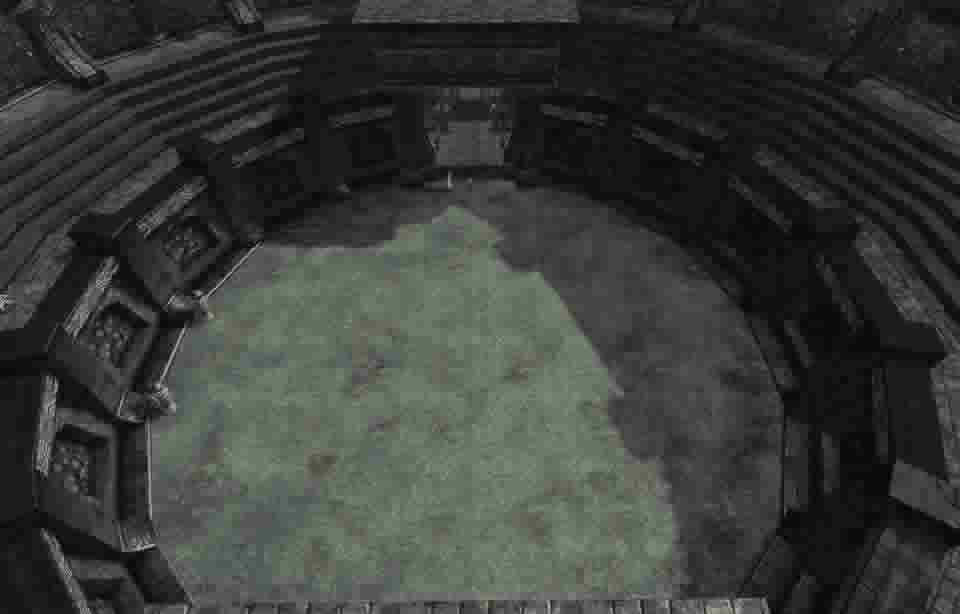
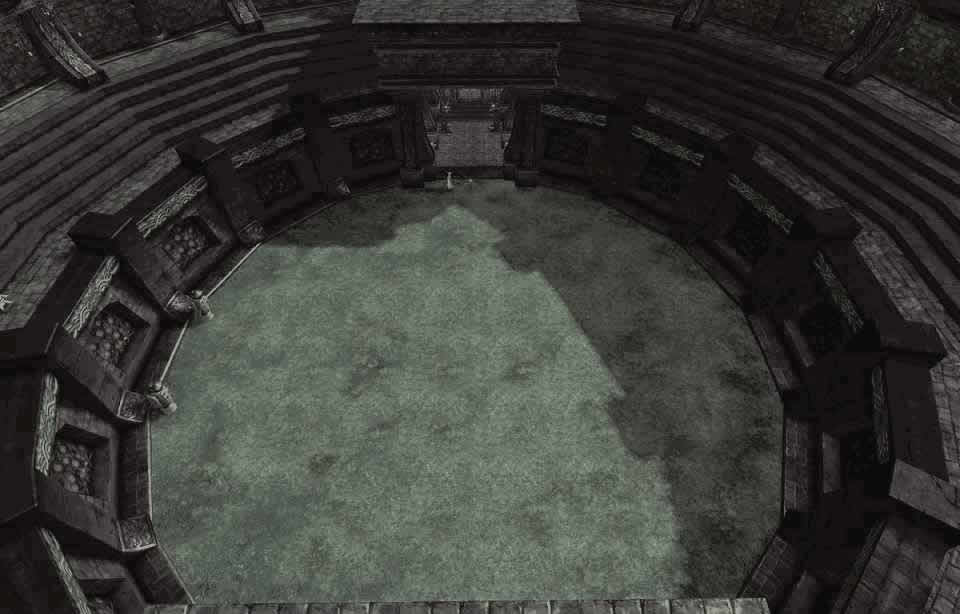
change images

diff --git a/src/Sprite/Chip.js b/src/Sprite/Chip.js
@@ -83,21 +83,19 @@ this.setPosition(posX,posY);
         }
 
         //マップ配置
-/*
         this.chipSprite.setOpacity(255*0.5);
         this.addChild(this.chipSprite);
         this.chipSprite.setPosition(0,0);
         this.chipSprite.setAnchorPoint(0.5,0.5);
         this.setPosition(posX,posY);
-*/
-/* 
+
+
         //世界が色づいたときのマップ
         this.colored = cc.Sprite.create(s_mapchip_001_colored);
         this.colored.setOpacity(255*0);
         this.colored.setPosition(0,0);
         this.colored.setAnchorPoint(0.5,0.5);
         this.addChild(this.colored);
-*/
 
 /*
         //mapNumber
@@ -150,7 +148,7 @@ this.setPosition(posX,posY);
                     this.energySprite.setPosition(0,70);
                     this.energySprite.runAction(this.energyRep);
                     this.addChild(this.energySprite);
-                    //this.colored.setOpacity(255*100/100);
+                    this.colored.setOpacity(255*0.8);
                 }
             }
         }

diff --git a/src/Manager/Stage.js b/src/Manager/Stage.js
@@ -17,12 +17,12 @@ var Stage = cc.Class.extend({
         this.isColored        = false;
         this.isEscaped        = false;
         this.clearTargetCnt   = 0;
-/*
+
         this.field = cc.Sprite.create(s_field);
         this.field.setScale(1.8,1.3);
         this.field.setPosition(820,330);
         this.game.mapNode.addChild(this.field);
-*/
+
         this.escape = cc.Sprite.create(s_scape_zone);
         this.escape.setPosition(800,560);
         this.game.mapNode.addChild(this.escape);

diff --git a/src/Layer/GameLayer.js b/src/Layer/GameLayer.js
@@ -64,7 +64,7 @@ var GameLayer = cc.Layer.extend({
 */
         this.setUI();
 
-//this.addColleagues(5,1);
+        this.addColleagues(5,1);
 
         this.scheduleUpdate();
         this.setTouchEnabled(true);
